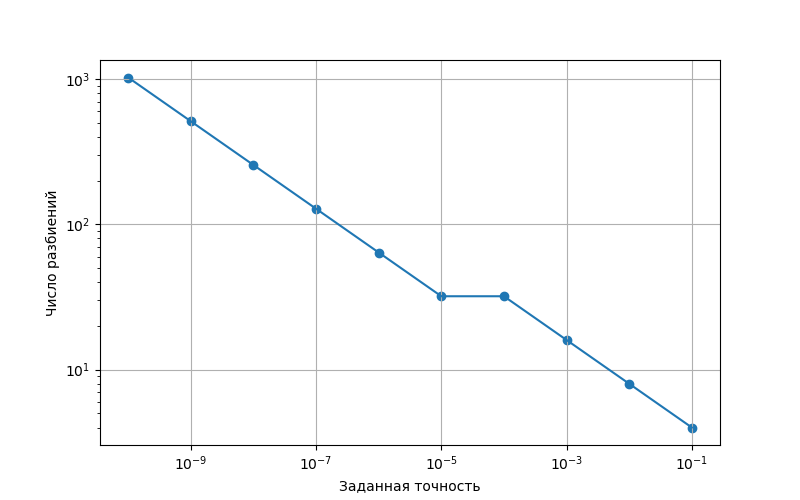
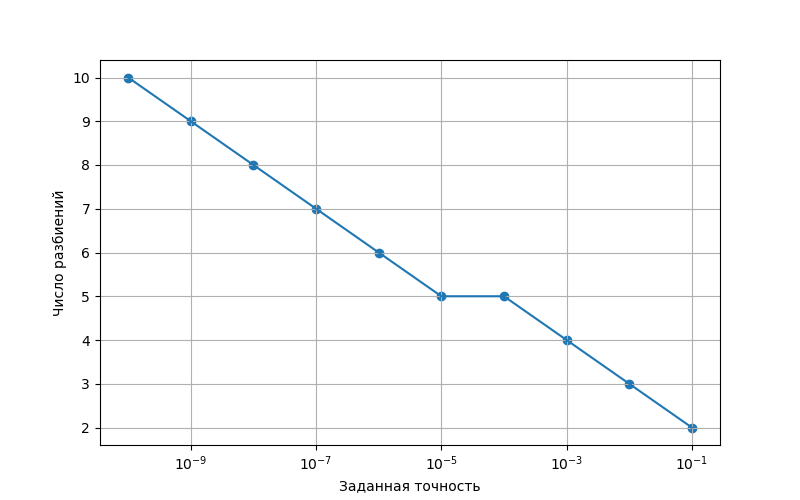
additional research

diff --git a/lab3/main.cpp b/lab3/main.cpp
@@ -1,6 +1,7 @@
 #include <iostream>
 #include <fstream>
 #include <cmath>
+#include <map>
 
 using namespace std;
 
@@ -9,16 +10,29 @@ using namespace std;
 /* global vars. Only for tests */
 int N_2q = 0;
 double h_3q = 0;
+
+int N_oper_4 = 0;
 /*understand and forgive*/
+
+map<double,double> vals;
 
 double Function(double x){
     return powl(x,6)/6 - powl(x,4) * 21/20 +  powl(x,3) * 7/6 -  powl(x,2) * 7/2 - x * 37/5 ;
 }
 
 double function(double x){
+    N_oper_4++;
     return powl(x,5) - 4.2 * powl(x,3) + 3.5 * powl(x,2) - 7.0 * x - 7.4;
 }
 
+
+double get_fun_value(double x){
+    if(vals.count(x) == 0){
+        vals.insert({x,function(x)});
+    }
+
+    return vals.at(x);
+}
 
 double integrall(double a, double b){
     return Function(b) - Function(a);
@@ -59,6 +73,7 @@ double Simpson(double a, double b, double (*fun)(double x), int rang){
 
     return res;
 }
+
 
 bool RungeRule(double Sn, double S2n ,double eps){
     return (fabs(S2n - Sn) / 15.0) < eps;
@@ -142,12 +157,56 @@ void Test3(){
     out.close();
 }
 
+void Test4_1(){
+    double a = -0.8;
+    double b = 2.2;
+
+    ofstream out;
+    out.open(PATH"4_1q.txt");
+
+    for(int i = 1; i <= 10; i++){
+        double e = powl(10, -i);
+        Integrate(a,b,function,e); 
+
+        out << e << ' ' << N_oper_4 << endl;
+        N_oper_4 = 0;
+    }
+
+
+    out.close();
+}
+
+void Test4_2(){
+    double a = -0.8;
+    double b = 2.2;
+
+    ofstream out;
+    out.open(PATH"4_2q.txt");
+
+
+    for(int i = 1; i <= 10; i++){
+        double e = powl(10, -i);
+        Integrate(a,b,get_fun_value,e); 
+
+        out << e << ' ' << N_oper_4 << endl;
+        N_oper_4 = 0;
+
+        vals.clear();
+    }
+
+
+    out.close();
+}
+
 int main(){
     
 
-    Test1();
-    Test2();
-    Test3();
+    // Test1();
+    // Test2();
+    // Test3();
+
+    Test4_1();
+    Test4_2();
 
     return 0;
 }

diff --git a/lab3/graph4.py b/lab3/graph4.py
@@ -1,0 +1,36 @@
+import math
+import numpy as np
+import matplotlib.pyplot as plt
+
+plt.figure(figsize=(8,5))
+
+
+with open('data/4_1q.txt') as f:
+    lines = f.readlines()
+    x = [float(line.split()[0]) for line in lines]
+    y = [int(line.split()[1]) for line in lines]
+
+plt.scatter(x,y)
+p1, = plt.plot(x,y)
+
+
+with open('data/4_2q.txt') as f:
+    lines = f.readlines()
+    x = [float(line.split()[0]) for line in lines]
+    y = [int(line.split()[1]) for line in lines]
+
+plt.scatter(x,y)
+p2, = plt.plot(x,y)
+
+plt.grid()
+
+plt.semilogx()
+plt.semilogy()
+
+plt.xlabel('Заданная точность')
+plt.ylabel('Количество операций')
+
+plt.legend([p1,p2],["Неоптимизированный алгоритм","Оптимизированный алгоритм"])
+#plt.show()
+
+plt.savefig('plots/4.png')

diff --git a/lab3/graph2.py b/lab3/graph2.py
@@ -8,7 +8,7 @@ plt.figure(figsize=(8,5))
 with open('data/2q.txt') as f:
     lines = f.readlines()
     x = [float(line.split()[0]) for line in lines]
-    y = [int(line.split()[1]) for line in lines]
+    y = [int(math.log2(int(line.split()[1]))) for line in lines]
 
 plt.scatter(x,y)
 amm, = plt.plot(x,y)
@@ -16,12 +16,12 @@ amm, = plt.plot(x,y)
 plt.grid()
 
 plt.semilogx()
-plt.semilogy()
+
 
 plt.xlabel('Заданная точность')
 plt.ylabel('Число разбиений')
 
 
-#plt.show()
+# plt.show()
 
 plt.savefig('plots/2.png')
